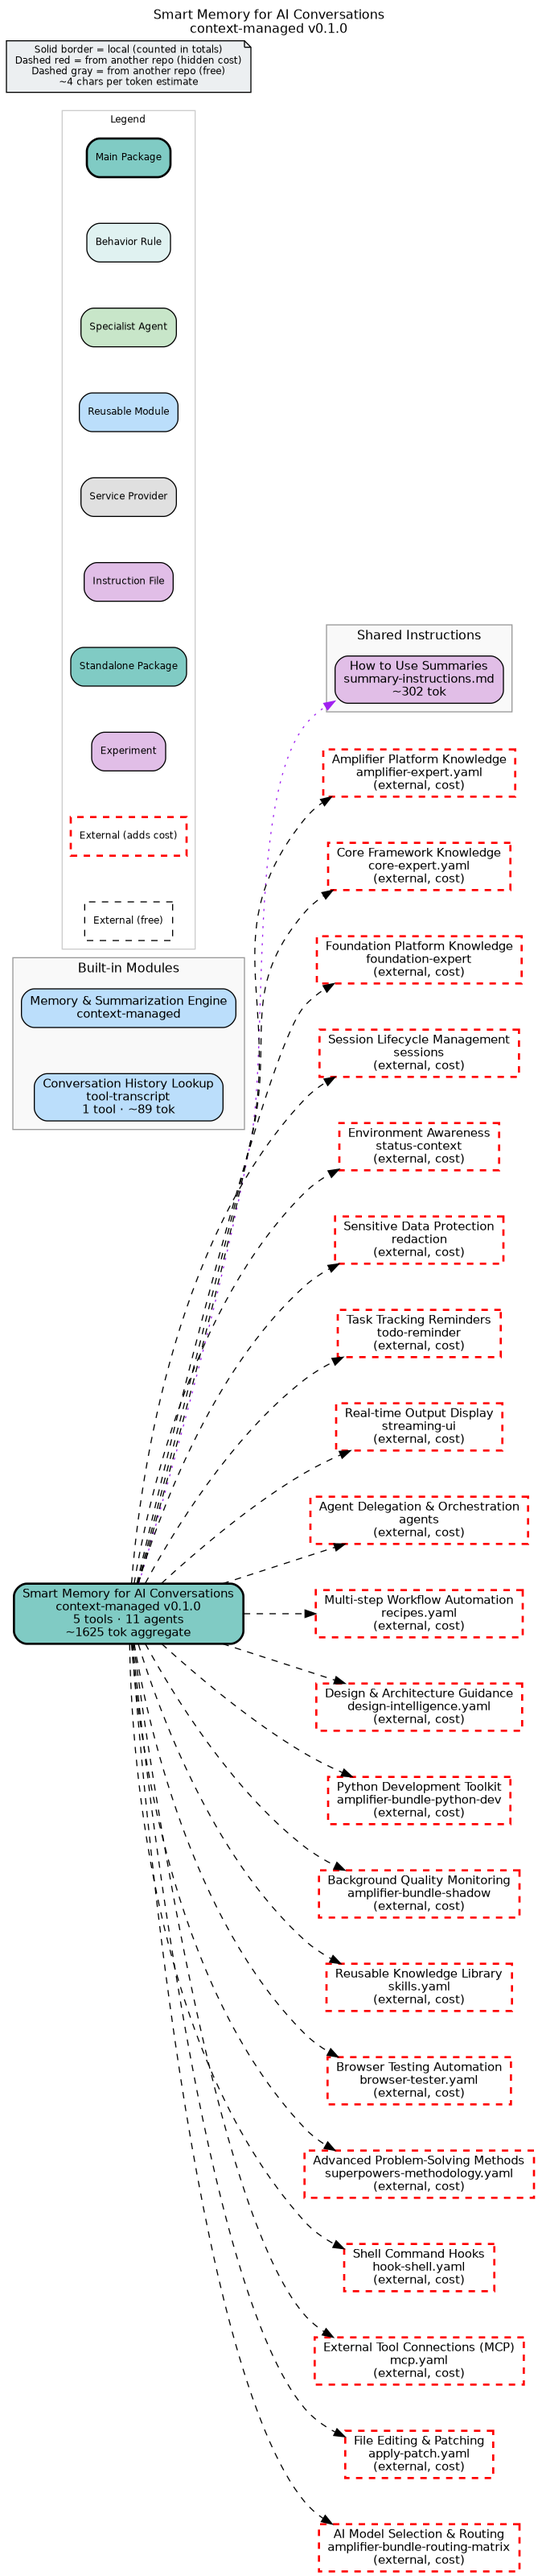
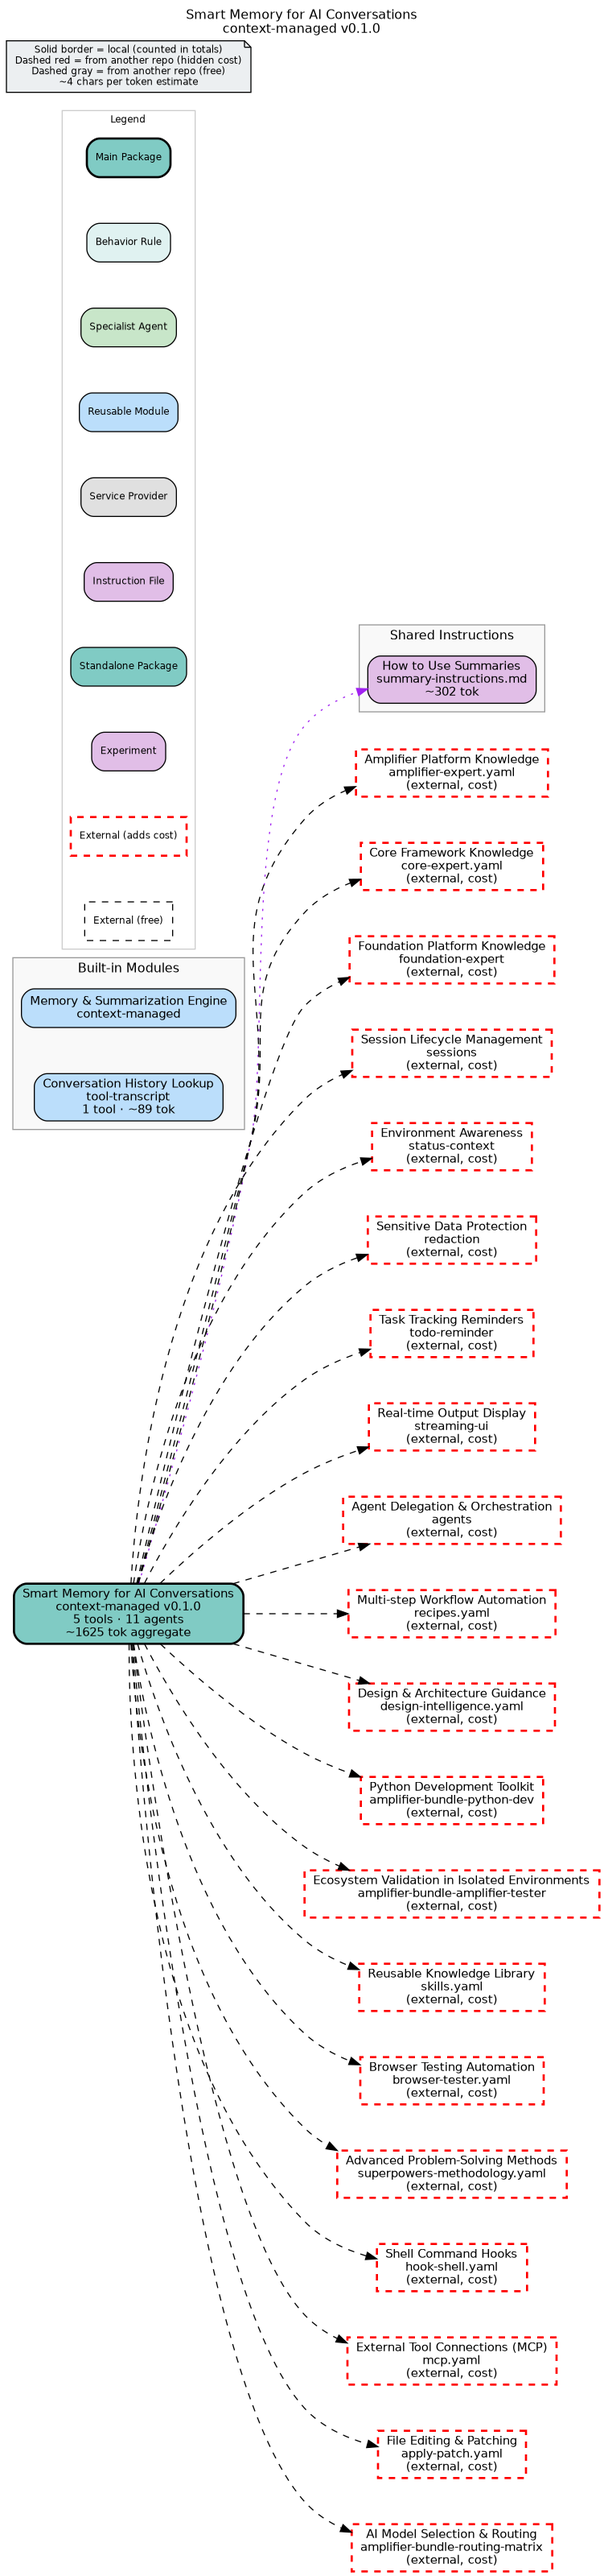
feat: replace amplifier-bundle-shadow include with amplifier-bundle-amplifier-tester
The bundle composition currently includes amplifier-bundle-shadow as the
"Background Quality Monitoring" capability. amplifier-bundle-shadow has
been superseded ecosystem-wide by amplifier-bundle-amplifier-tester
(which transitively pulls in amplifier-bundle-digital-twin-universe and
amplifier-bundle-gitea), the same pattern adopted by amplifier-foundation.

Changes:
- bundle.md: swap the git+ include from amplifier-bundle-shadow to
  amplifier-bundle-amplifier-tester
- bundle.dot: replace the corresponding external node + edge; relabel
  the node to "Ecosystem Validation in Isolated Environments"
- bundle.png: regenerated from the updated bundle.dot

🤖 Generated with [Amplifier](https://github.com/microsoft/amplifier)

diff --git a/bundle.md b/bundle.md
@@ -31,7 +31,7 @@ includes:
   - bundle: git+https://github.com/microsoft/amplifier-bundle-recipes@main#subdirectory=behaviors/recipes.yaml
   - bundle: git+https://github.com/microsoft/amplifier-bundle-design-intelligence@main#subdirectory=behaviors/design-intelligence.yaml
   - bundle: git+https://github.com/microsoft/amplifier-bundle-python-dev@main
-  - bundle: git+https://github.com/microsoft/amplifier-bundle-shadow@main
+  - bundle: git+https://github.com/microsoft/amplifier-bundle-amplifier-tester@main
   - bundle: git+https://github.com/microsoft/amplifier-bundle-skills@main#subdirectory=behaviors/skills.yaml
   - bundle: git+https://github.com/microsoft/amplifier-bundle-browser-tester@main#subdirectory=behaviors/browser-tester.yaml
   - bundle: git+https://github.com/microsoft/amplifier-bundle-superpowers@main#subdirectory=behaviors/superpowers-methodology.yaml
